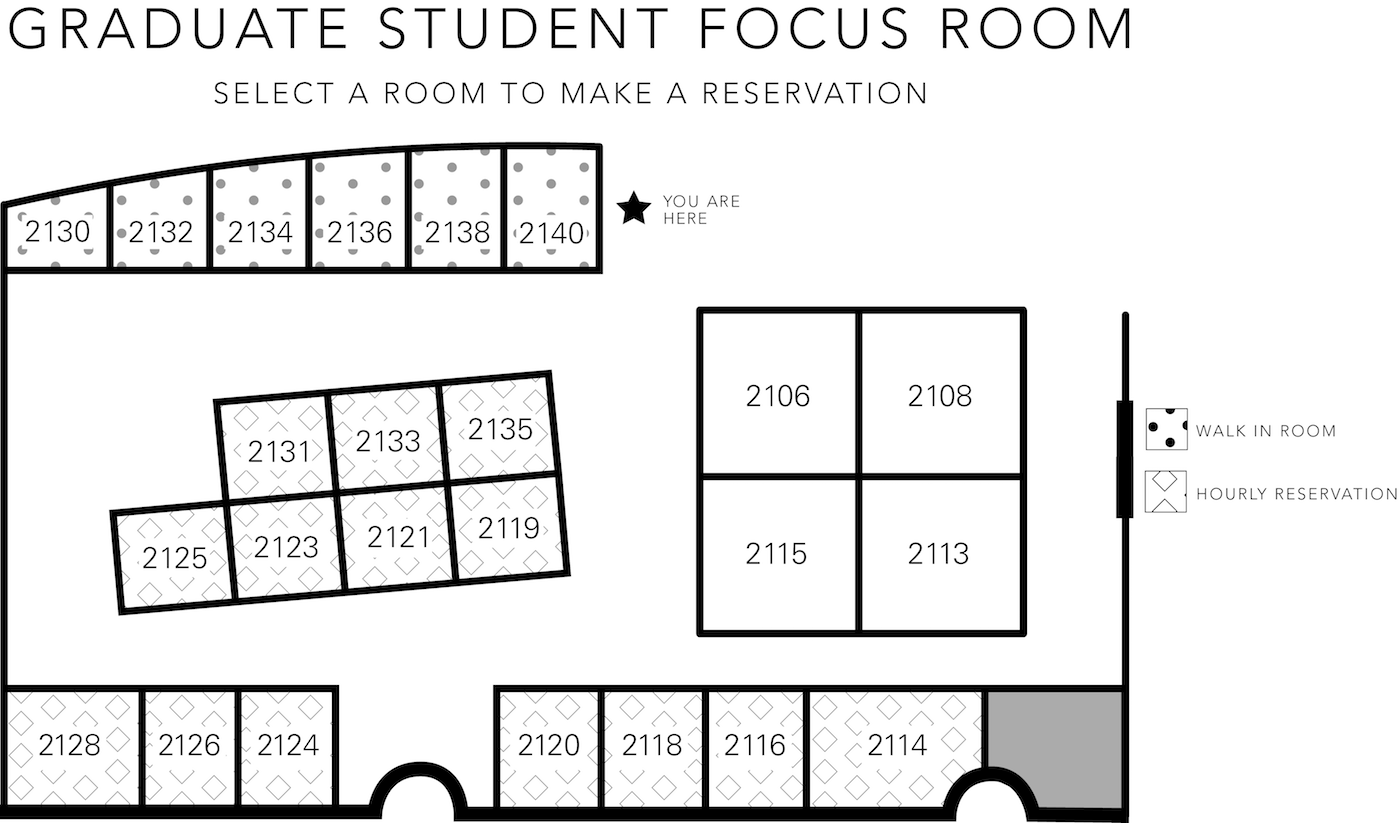
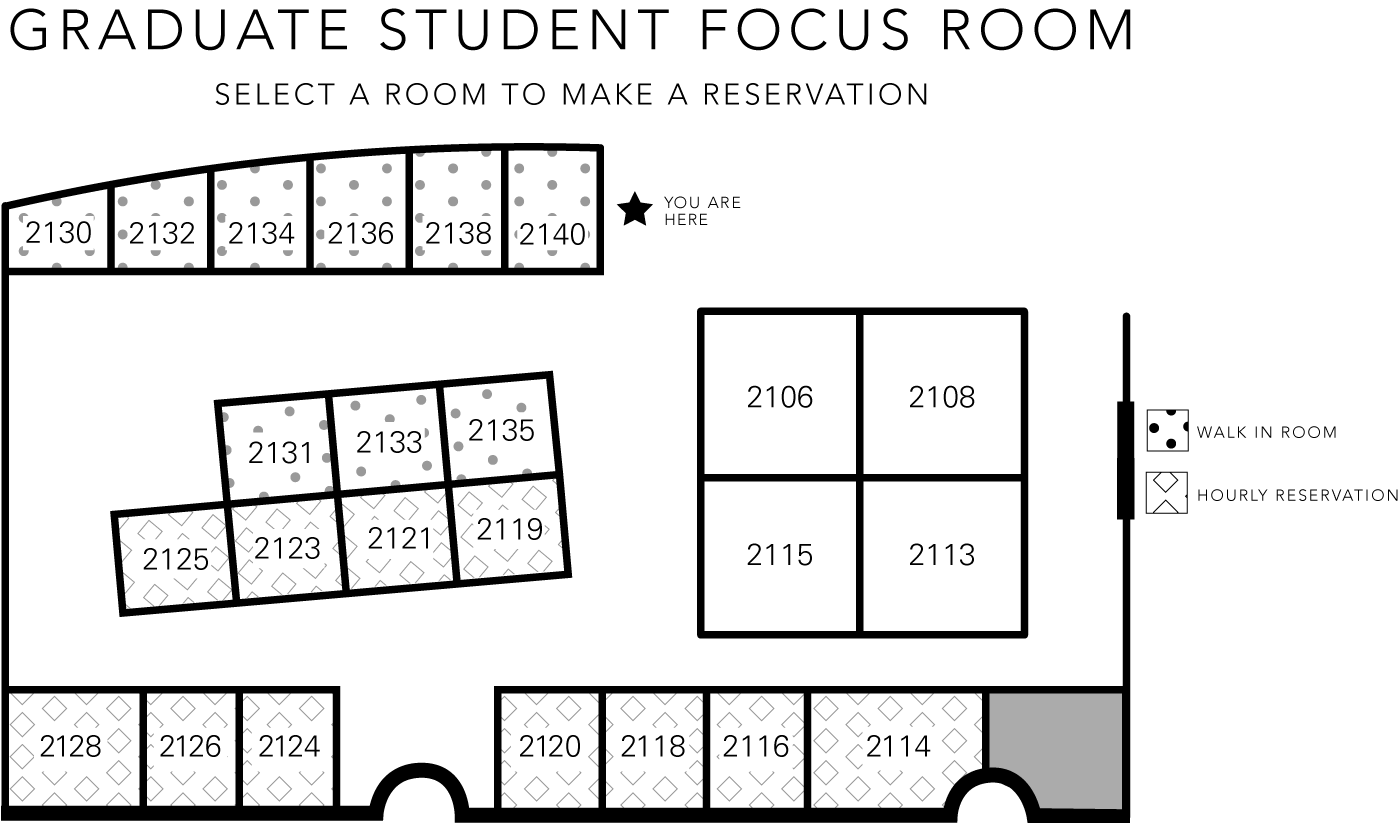
applying room changes for grad res.

diff --git a/modules/studyroom_availability/theme/studyroom-availability-airport.tpl.php b/modules/studyroom_availability/theme/studyroom-availability-airport.tpl.php
@@ -113,9 +113,6 @@ $args = explode('/', drupal_get_path_alias());
                <area shape="poly" coords="230,512,342,502,351,606,239,617" href="/space/51/day/graduateimagemap">
                <area shape="poly" coords="345,503,455,493,463,595,351,604" href="/space/50/day/graduateimagemap">
                <area shape="poly" coords="457,490,569,482,577,586,464,594" href="/space/48/day/graduateimagemap">
-               <area shape="poly" coords="221,411,335,400,341,504,230,512" href="/space/56/day/graduateimagemap">
-               <area shape="poly" coords="334,400,446,390,456,494,341,500" href="/space/57/day/graduateimagemap">
-               <area shape="poly" coords="446,388,560,380,567,484,453,491" href="/space/58/day/graduateimagemap">
                <area shape="poly" coords="113,188,113,275,5,277,3,205,114,188,141,181,193,173,213,170,214,275,110,275" href="#" data-target="#myModal" data-toggle="modal">
                <area shape="poly" coords="215,170,257,166,300,161,317,158,312,276,213,277" href="#" data-target="#myModal" data-toggle="modal">
                <area shape="poly" coords="317,159,361,155,414,150,417,279,315,276" href="#" data-target="#myModal" data-toggle="modal">
